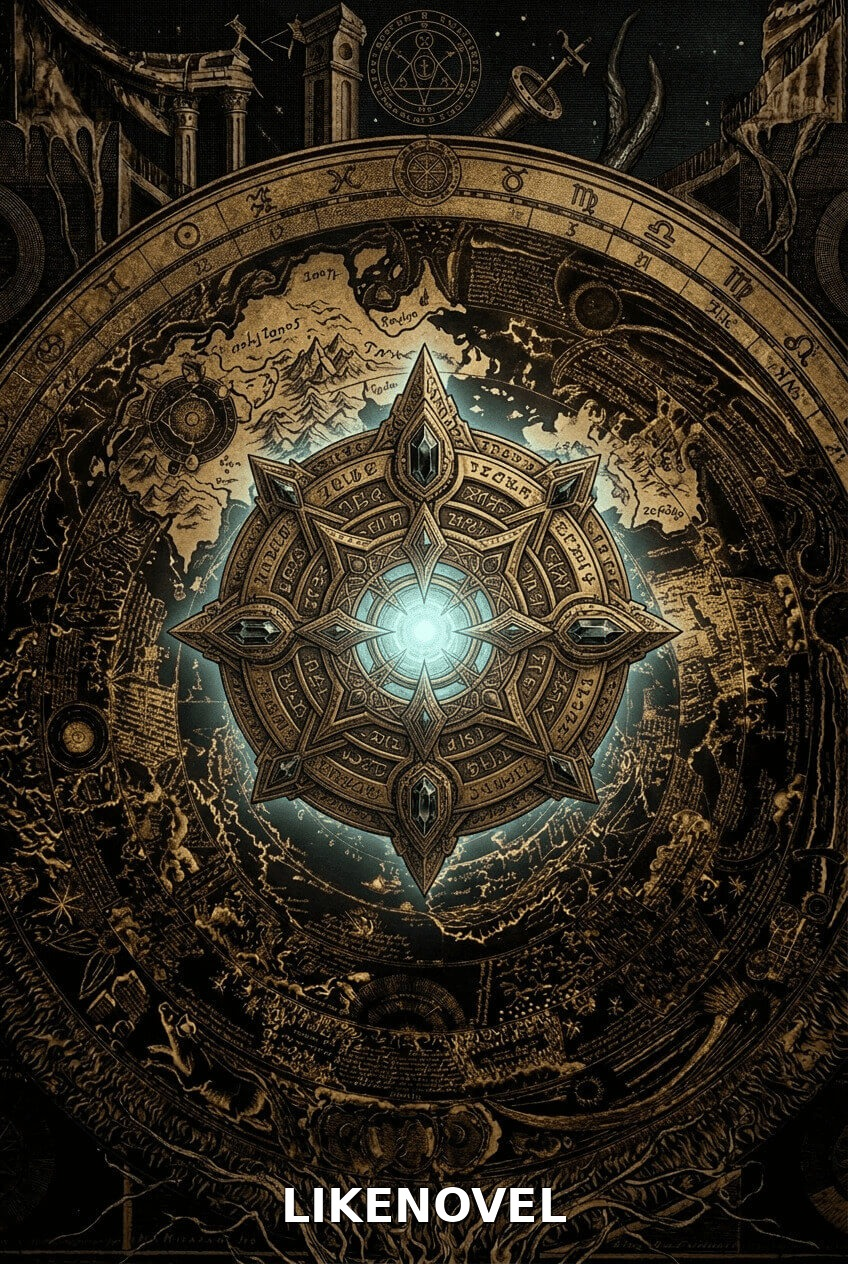
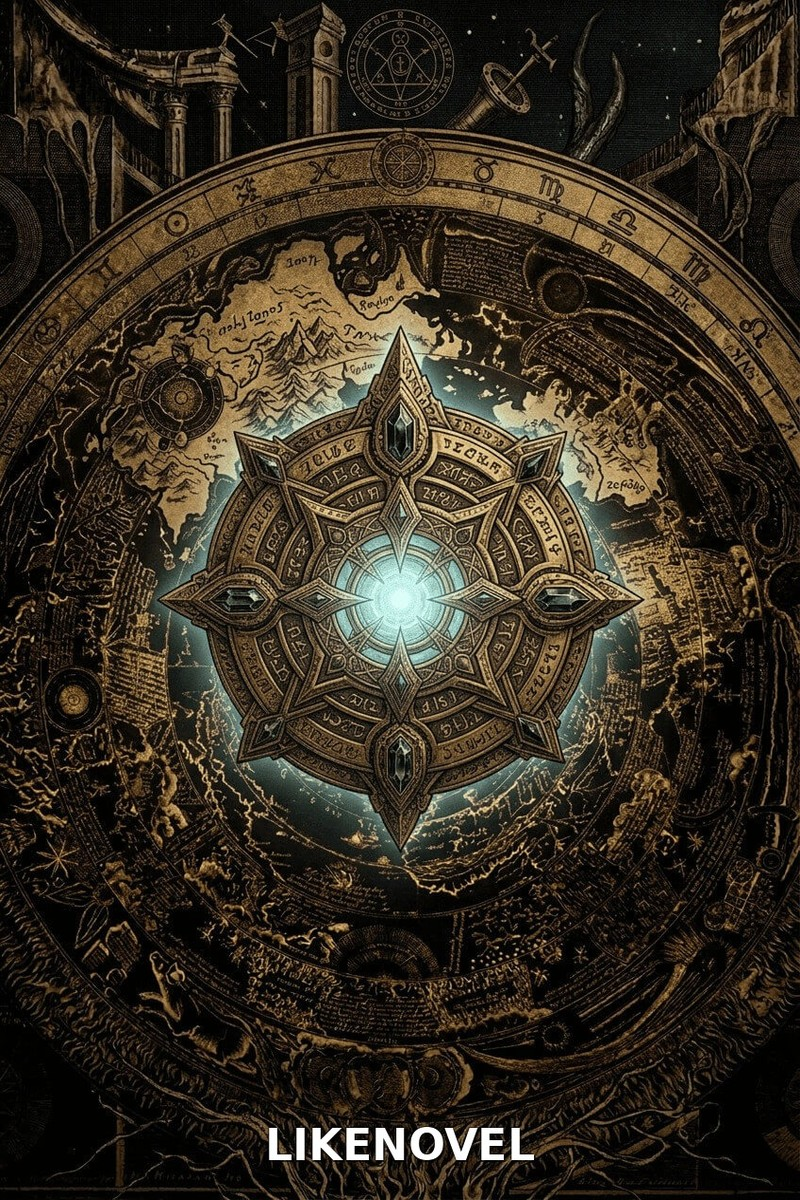
feat: add 22 new cover backgrounds and resize all to 800x1200
- Add cover_29~50 (22 new AI-generated backgrounds with LIKENOVEL logo)
- Resize all covers to 800x1200 (2x canvas size) for performance
- Auto brightness detection: white text on dark, dark text on light
- Update BG_TEMPLATES array with new entries

Changed region(s): [[0.5, 0.3083, 0.5312, 0.3392]]

diff --git a/service/components/makingProduct/CoverDesignModal.tsx b/service/components/makingProduct/CoverDesignModal.tsx
@@ -58,26 +58,49 @@ const BG_TEMPLATES = [
   { id: 25, src: "/images/covers/cover_26.jpg" },
   { id: 26, src: "/images/covers/cover_27.jpg" },
   { id: 27, src: "/images/covers/cover_28.jpg" },
+  // 새 기본 표지 (로고 합성됨)
+  { id: 28, src: "/images/covers/cover_29.jpg" },
+  { id: 29, src: "/images/covers/cover_30.jpg" },
+  { id: 30, src: "/images/covers/cover_31.jpg" },
+  { id: 31, src: "/images/covers/cover_32.jpg" },
+  { id: 32, src: "/images/covers/cover_33.jpg" },
+  { id: 33, src: "/images/covers/cover_34.jpg" },
+  { id: 34, src: "/images/covers/cover_35.jpg" },
+  { id: 35, src: "/images/covers/cover_36.jpg" },
+  { id: 36, src: "/images/covers/cover_37.jpg" },
+  { id: 37, src: "/images/covers/cover_38.jpg" },
+  { id: 38, src: "/images/covers/cover_39.jpg" },
+  { id: 39, src: "/images/covers/cover_40.jpg" },
+  { id: 40, src: "/images/covers/cover_41.jpg" },
+  { id: 41, src: "/images/covers/cover_42.jpg" },
+  { id: 42, src: "/images/covers/cover_43.jpg" },
+  { id: 43, src: "/images/covers/cover_44.jpg" },
+  { id: 44, src: "/images/covers/cover_45.jpg" },
+  { id: 45, src: "/images/covers/cover_46.jpg" },
+  { id: 46, src: "/images/covers/cover_47.jpg" },
+  { id: 47, src: "/images/covers/cover_48.jpg" },
+  { id: 48, src: "/images/covers/cover_49.jpg" },
+  { id: 49, src: "/images/covers/cover_50.jpg" },
   // 스포츠 표지
-  { id: 28, src: "/images/default_soccer.png" },
-  { id: 29, src: "/images/default_soccer2.png" },
-  { id: 30, src: "/images/default_soccer3.png" },
-  { id: 31, src: "/images/default_baseball.png" },
-  { id: 32, src: "/images/default_baseball2.png" },
-  { id: 33, src: "/images/default_baseball3.png" },
-  { id: 34, src: "/images/default_basketball.png" },
-  { id: 35, src: "/images/default_basketball2.png" },
-  { id: 36, src: "/images/default_basketball3.png" },
+  { id: 50, src: "/images/default_soccer.png" },
+  { id: 51, src: "/images/default_soccer2.png" },
+  { id: 52, src: "/images/default_soccer3.png" },
+  { id: 53, src: "/images/default_baseball.png" },
+  { id: 54, src: "/images/default_baseball2.png" },
+  { id: 55, src: "/images/default_baseball3.png" },
+  { id: 56, src: "/images/default_basketball.png" },
+  { id: 57, src: "/images/default_basketball2.png" },
+  { id: 58, src: "/images/default_basketball3.png" },
   // 단색 표지
-  { id: 37, src: "/images/default_black.png" },
-  { id: 38, src: "/images/default_navy.png" },
-  { id: 39, src: "/images/default_purple.png" },
-  { id: 40, src: "/images/default_wine.png" },
-  { id: 41, src: "/images/default_slateblue.png" },
-  { id: 42, src: "/images/default_green.png" },
-  { id: 43, src: "/images/default_gray.png" },
-  { id: 44, src: "/images/default_orange.png" },
-  { id: 45, src: "/images/default_yellow.png" },
+  { id: 59, src: "/images/default_black.png" },
+  { id: 60, src: "/images/default_navy.png" },
+  { id: 61, src: "/images/default_purple.png" },
+  { id: 62, src: "/images/default_wine.png" },
+  { id: 63, src: "/images/default_slateblue.png" },
+  { id: 64, src: "/images/default_green.png" },
+  { id: 65, src: "/images/default_gray.png" },
+  { id: 66, src: "/images/default_orange.png" },
+  { id: 67, src: "/images/default_yellow.png" },
 ];
 
 type TabType = "basic" | "make" | "upload";
